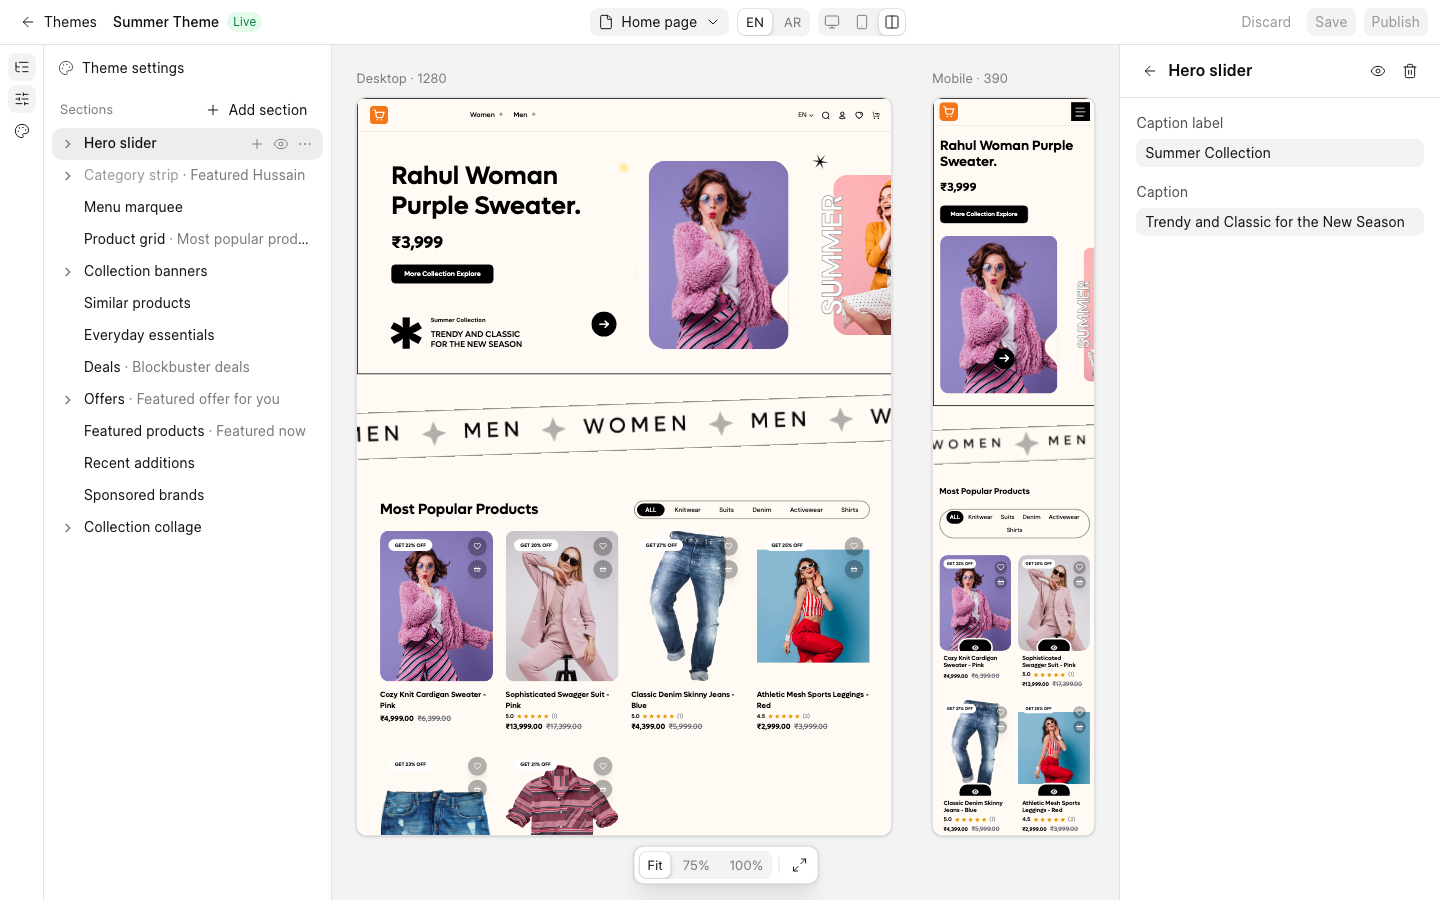
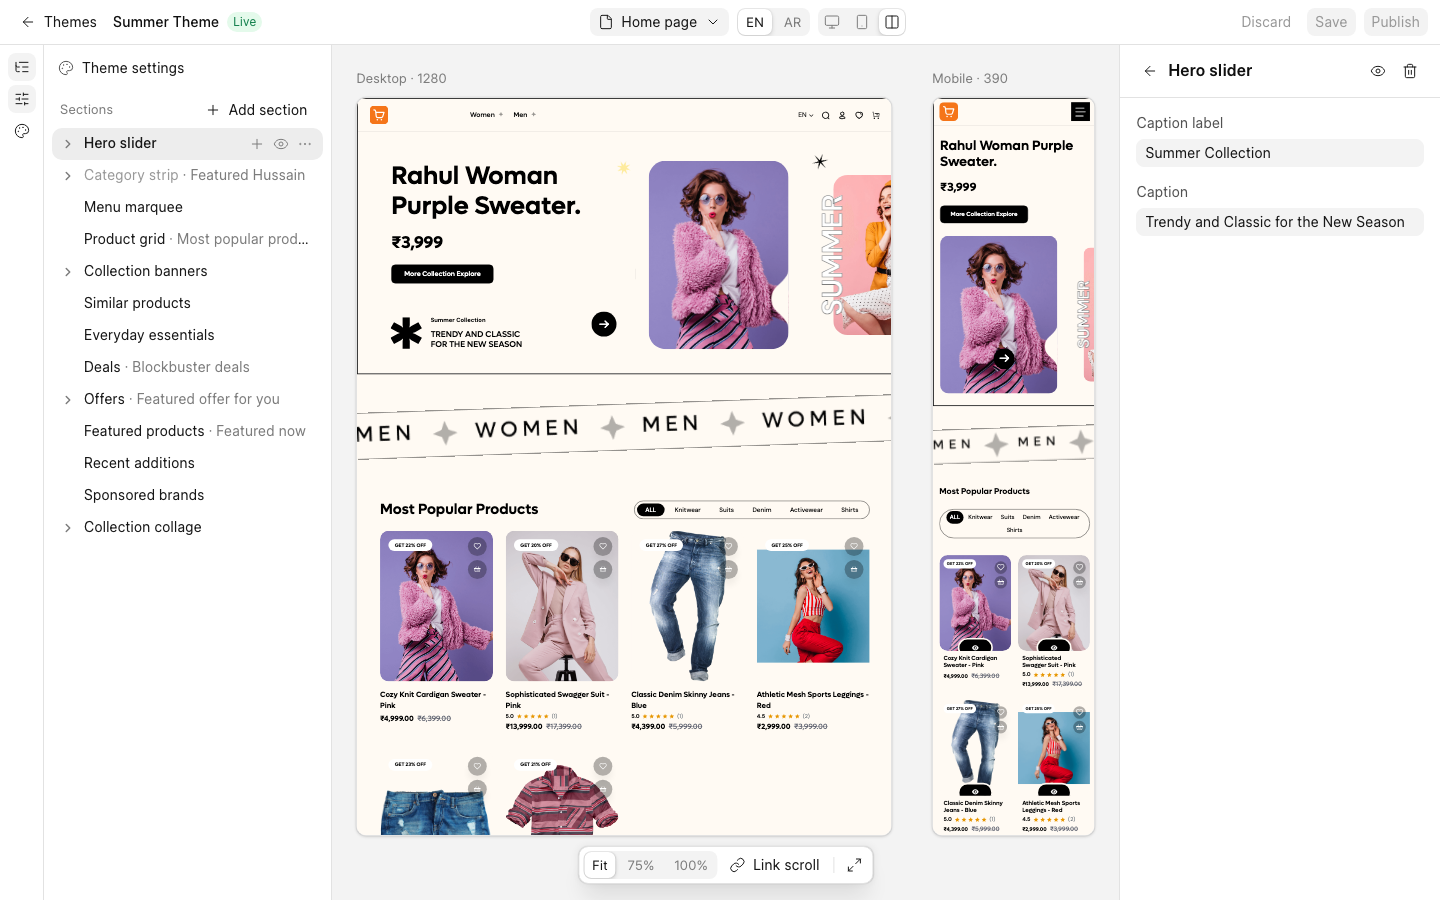
feat(themes): link the scroll of the side-by-side previews

Changed region(s): [[0.25, 0.4356, 0.625, 0.4978], [0.4375, 0.9333, 0.5625, 0.9644], [0.6562, 0.4667, 0.75, 0.4978]]

diff --git a/dashboard/tests/e2e/themeEditor.spec.js b/dashboard/tests/e2e/themeEditor.spec.js
@@ -3,7 +3,7 @@ import { describe } from 'node:test'
 import { adminGet, adminPost, goto, uiTest, useSession, wait } from './harness.js'
 
 const SLOW_RENDER_MS = 1500
-const WORKSPACE_STORAGE = ['commera:theme-editor:zoom', 'commera-theme-editor-panels']
+const WORKSPACE_STORAGE = ['commera:theme-editor:zoom', 'commera:theme-editor:link-scroll', 'commera-theme-editor-panels']
 
 const REFUSAL = {
   status: 417,
@@ -328,5 +328,57 @@ describe('theme editor', () => {
     const selectedNode = await page.$eval('[data-tree-node][aria-current="true"]', (element) => element.dataset.treeNode)
     assert.ok(selectedNode?.includes(picked), `a click in the mobile preview selects ${picked} (got ${selectedNode})`)
     assert.ok(await outlineShown(desktop), 'the desktop preview follows a pick made on mobile')
+  })
+
+  uiTest(session, 'Link scroll keeps the same section at the top of both previews', async (t) => {
+    const { page } = session
+    const theme = await findLiveSectionsTheme(page)
+    if (!theme) return t.skip('the live theme is not a Sections theme')
+    await openEditor(page, theme, { clearWorkspace: true })
+
+    const deals = await page.$$eval('[data-tree-node^="section:"]', (nodes) =>
+      nodes.find((node) => node.innerText.trim().startsWith('Deals'))?.dataset.treeNode,
+    )
+    if (!deals) return t.skip('the home page has no Deals section')
+    const [, group, section] = deals.split(':')
+
+    await page.click('[aria-label="Preview width"] [data-value="both"]')
+    await page.waitForSelector('[data-preview-device="mobile"] iframe[data-preview-frame="visible"]', {
+      timeout: 30000,
+    })
+    await wait(1000)
+    const desktop = await visibleFrame(page, 'desktop')
+    const mobile = await visibleFrame(page, 'mobile')
+    const sectionTop = (frame) =>
+      frame.evaluate(
+        (group, section) =>
+          document
+            .querySelector(`[data-commera-group="${group}"][data-commera-section="${section}"]`)
+            .getBoundingClientRect().top,
+        group,
+        section,
+      )
+    const scrollDesktopToDeals = () =>
+      desktop.evaluate(
+        (group, section) => {
+          const element = document.querySelector(`[data-commera-group="${group}"][data-commera-section="${section}"]`)
+          window.scrollTo({ top: element.getBoundingClientRect().top + window.scrollY, behavior: 'instant' })
+        },
+        group,
+        section,
+      )
+
+    const [linkButton] = await page.$$('xpath/.//button[normalize-space()="Link scroll"]')
+    await linkButton.click()
+    await scrollDesktopToDeals()
+    await wait(800)
+    assert.ok(Math.abs(await sectionTop(desktop)) <= 2, 'desktop shows Deals at the top')
+    assert.ok(Math.abs(await sectionTop(mobile)) <= 2, `mobile follows to Deals (top ${await sectionTop(mobile)})`)
+
+    await linkButton.click()
+    const mobileScroll = await mobile.evaluate(() => window.scrollY)
+    await desktop.evaluate(() => window.scrollTo({ top: 0, behavior: 'instant' }))
+    await wait(800)
+    assert.equal(await mobile.evaluate(() => window.scrollY), mobileScroll, 'with Link scroll off the mobile page stays put')
   })
 })

diff --git a/commera/public/js/theme_editor_preview.js b/commera/public/js/theme_editor_preview.js
@@ -9,6 +9,8 @@
 	let selected_detail = null;
 	let pending_scroll = false;
 	const resize_observer = new ResizeObserver(() => refresh_outlines());
+	let scroll_frame = null;
+	let ignore_scroll = false;
 
 	if (Number(new URLSearchParams(window.location.search).get('render')) > 1) {
 		const settled = document.createElement('style');
@@ -135,12 +137,53 @@
 	);
 	document.addEventListener('submit', (event) => event.preventDefault(), true);
 
+	function top_section() {
+		for (const element of document.querySelectorAll('[data-commera-section]')) {
+			const rect = element.getBoundingClientRect();
+			if (rect.bottom <= 0 || !rect.height) continue;
+			return {
+				group: element.dataset.commeraGroup,
+				section: element.dataset.commeraSection,
+				fraction: Math.min(Math.max(-rect.top / rect.height, 0), 1),
+			};
+		}
+		return {};
+	}
+
+	function scroll_position() {
+		return { y: window.scrollY, ...top_section() };
+	}
+
+	function scroll_to_section({ group, section, fraction }) {
+		const [element] =
+			group && section ? find_targets(group, section, section) : [];
+		if (!element) return;
+		const rect = element.getBoundingClientRect();
+		ignore_scroll = true;
+		window.scrollTo({
+			top: rect.top + window.scrollY + (Number(fraction) || 0) * rect.height,
+			behavior: 'instant',
+		});
+		requestAnimationFrame(() => {
+			ignore_scroll = false;
+		});
+	}
+
+	window.addEventListener('scroll', () => {
+		if (ignore_scroll || scroll_frame) return;
+		scroll_frame = requestAnimationFrame(() => {
+			scroll_frame = null;
+			post('commera:scroll', scroll_position());
+		});
+	});
+
 	window.addEventListener('message', (event) => {
 		if (event.origin !== origin || event.source !== window.parent) return;
 		const { type, ...data } = event.data || {};
 		if (type === 'commera:highlight') highlight(data);
 		if (type === 'commera:scroll-to')
 			window.scrollTo({ top: Number(data.y) || 0, behavior: 'instant' });
+		if (type === 'commera:scroll-to-section') scroll_to_section(data);
 	});
 
 	window.addEventListener('resize', refresh_outlines);
@@ -149,7 +192,7 @@
 		refresh_outlines();
 	});
 	window.addEventListener('pagehide', () =>
-		post('commera:scroll', { y: window.scrollY }),
+		post('commera:scroll', scroll_position()),
 	);
 
 	post('commera:preview-ready');

diff --git a/dashboard/src/components/storefront/LayoutPreviewCanvas.vue b/dashboard/src/components/storefront/LayoutPreviewCanvas.vue
@@ -29,6 +29,13 @@ const ZOOMS = [
 const canvas = ref(null)
 const { width: canvasWidth, height: canvasHeight } = useElementSize(canvas)
 const zooms = useLocalStorage('commera:theme-editor:zoom', {})
+const linkScroll = useLocalStorage('commera:theme-editor:link-scroll', false)
+const previews = {}
+
+function followScroll(source, position) {
+  if (!linkScroll.value || state.device !== 'both' || !position.section) return
+  previews[source === 'desktop' ? 'mobile' : 'desktop']?.scrollToSection(position)
+}
 
 const zoom = computed({
   get: () => zooms.value[state.device] ?? 'fit',
@@ -77,7 +84,11 @@ onKeyStroke('Escape', (event) => {
               class="origin-top-left"
               :style="{ width: `${frame.width}px`, height: `${frame.height}px`, transform: `scale(${layout.scale})` }"
             >
-              <LayoutPreviewFrame :editor="editor" />
+              <LayoutPreviewFrame
+                :ref="(preview) => (previews[frame.key] = preview)"
+                :editor="editor"
+                @scroll="followScroll(frame.key, $event)"
+              />
             </div>
           </div>
         </div>
@@ -89,6 +100,14 @@ onKeyStroke('Escape', (event) => {
       data-zoom-controls
     >
       <TabButtons v-model="zoom" :options="ZOOMS" aria-label="Preview zoom" />
+      <Button
+        v-if="state.device === 'both'"
+        :variant="linkScroll ? 'subtle' : 'ghost'"
+        icon-left="lucide-link"
+        label="Link scroll"
+        :aria-pressed="linkScroll"
+        @click="linkScroll = !linkScroll"
+      />
       <div class="mx-0.5 h-4 border-l border-outline-gray-2" />
       <Button
         variant="ghost"

diff --git a/dashboard/src/components/storefront/LayoutPreviewFrame.vue b/dashboard/src/components/storefront/LayoutPreviewFrame.vue
@@ -7,6 +7,8 @@ const props = defineProps({
   editor: { type: Object, required: true },
 })
 
+const emit = defineEmits(['scroll'])
+
 const { state, selectFromPreview } = props.editor
 
 const frameId = useId()
@@ -97,11 +99,14 @@ useEventListener(window, 'message', (event) => {
   if (index === -1) return
   const { type, ...data } = event.data || {}
   if (type === 'commera:select' && index === visibleIndex.value) selectFromPreview(data)
+  if (type === 'commera:scroll' && index === visibleIndex.value) emit('scroll', data)
   if (type === 'commera:preview-ready' && index !== visibleIndex.value) {
     const renderNumber = Number(new URLSearchParams(event.source.location.search).get('render'))
     if (renderNumber === latestRender) swapIn(index, renderNumber)
   }
 })
+
+defineExpose({ scrollToSection: (position) => post('commera:scroll-to-section', position) })
 
 onMounted(render)
 watch(() => [state.previewToken, state.language], render)
